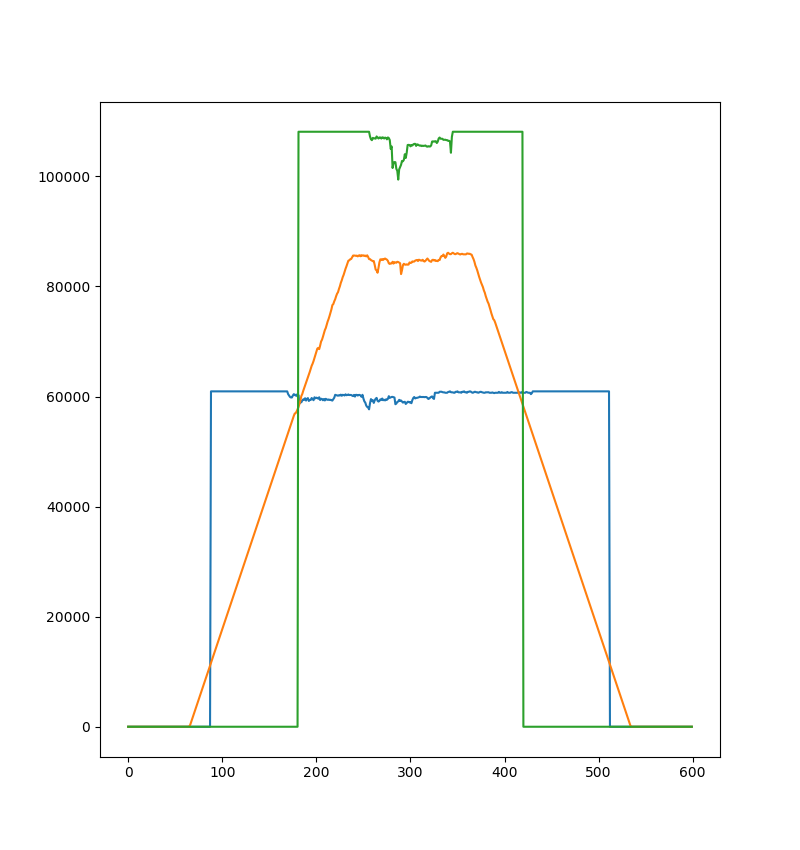
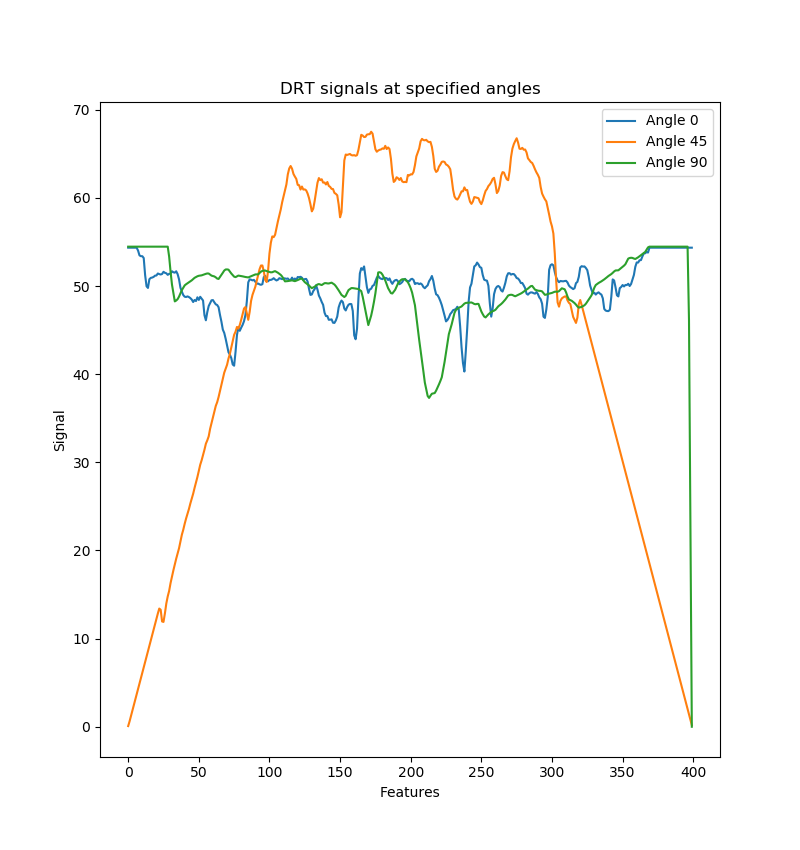
Updated images for presentation

diff --git a/src/invariant_drt.py b/src/invariant_drt.py
@@ -65,7 +65,7 @@ def compute_drt(img, angles=None, n_beams=600):
     # Build sinogram
     for i in range(len(angles)):
         rotated_img = _warp_fast(padded_image, build_rotation(angles[i]))
-        
+
         # Compute ith angle beam sum vector, i.e. all beams on current angle
         sinogram[:, i] = rotated_img.sum(0)
         
@@ -128,8 +128,15 @@ Plots the beam sums for a specific set of angles.
 '''
 def plot_sinogram_angles(sinogram, angles, outpath):
     plt.figure(figsize=(8, 8.5))
+    plt.title("DRT signals at specified angles")
+    plt.xlabel("Features")
+    plt.ylabel("Signal")
+
+    lines = []
     for i in angles:
-        plt.plot(sinogram[:, i])
+        line_i, = plt.plot(sinogram[:, i], label="Angle %d" % i)
+        lines.append(line_i)
+    plt.legend(handles=lines)
     plt.savefig(outpath + "sinogram_angles_plot.png")
     
 '''
@@ -147,7 +154,7 @@ def plot_sinogram(sinogram, img, outpath):
     ax2.set_xlabel("Projection angle (deg)")
     ax2.set_ylabel("Projection beam (jth beam sum)")
     ax2.imshow(sinogram, cmap=plt.cm.Greys_r,
-               extent=(0, 180, 0, sinogram.shape[0]), aspect="auto")
+               extent=(0, sinogram.shape[1], 0, sinogram.shape[0]), aspect="auto")
     fig.tight_layout()
     
     plt.savefig(outpath + "sinogram_plot.png")

diff --git a/src/main.py b/src/main.py
@@ -5,7 +5,7 @@ Authors:     Robert Neff, Nathan Butler
 Description: Runs singature-verification components.
 '''
 
-# TODO: build pickle sets, compare results, get images for presentation and report
+# TODO: build pickle sets, compare results, get results plots
 
 import utils
 import os
@@ -41,8 +41,7 @@ def main():
 	
     data_path = "../../signDist1.0/images1/subject_025/"
     pickle_path = "../../Data/test"
-	
-    utils.run_tests(data_path, pickle_path, num_runs=1, method=m)
+    #utils.run_tests(data_path, pickle_path, num_runs=1, method=m)
 	
     print "Done!"
 	

diff --git a/README.md b/README.md
@@ -2,17 +2,20 @@
 Detecting Forged signatures
 
 Papers being followed:
+
 Paper 1:
 https://ac.els-cdn.com/S1568494615007577/1-s2.0-S1568494615007577-main.pdf?_tid=046b6bdc-0e3c-11e8-89cf-00000aacb35e&acdnat=1518251337_bef3cd4d78db771b353595816db8682f
 Paper 2:
 https://link.springer.com/content/pdf/10.1155%2FS1110865704309042.pdf
-Paper 3:
+Paper 3: 
 http://www.ijirst.org/articles/IJIRSTV3I1015.pdf
 
 Datasets used:
 http://www.iapr-tc11.org/mediawiki/index.php?title=ICFHR_2012_Signature_Verification_Competition_(4NSigComp2012)
 http://www.vision.caltech.edu/mariomu/research.html
+http://www.iapr-tc11.org/mediawiki/index.php/Datasets_List
 
 Other resources maybe in use:
-https://figshare.com/articles/GPDS960signature_database/1287360
-http://www.iapr-tc11.org/mediawiki/index.php/Datasets_List
+Signature image used for testing: 
+https://commons.wikimedia.org/wiki/File:Signature_of_Robert_Mugabe_clear.svg
+
